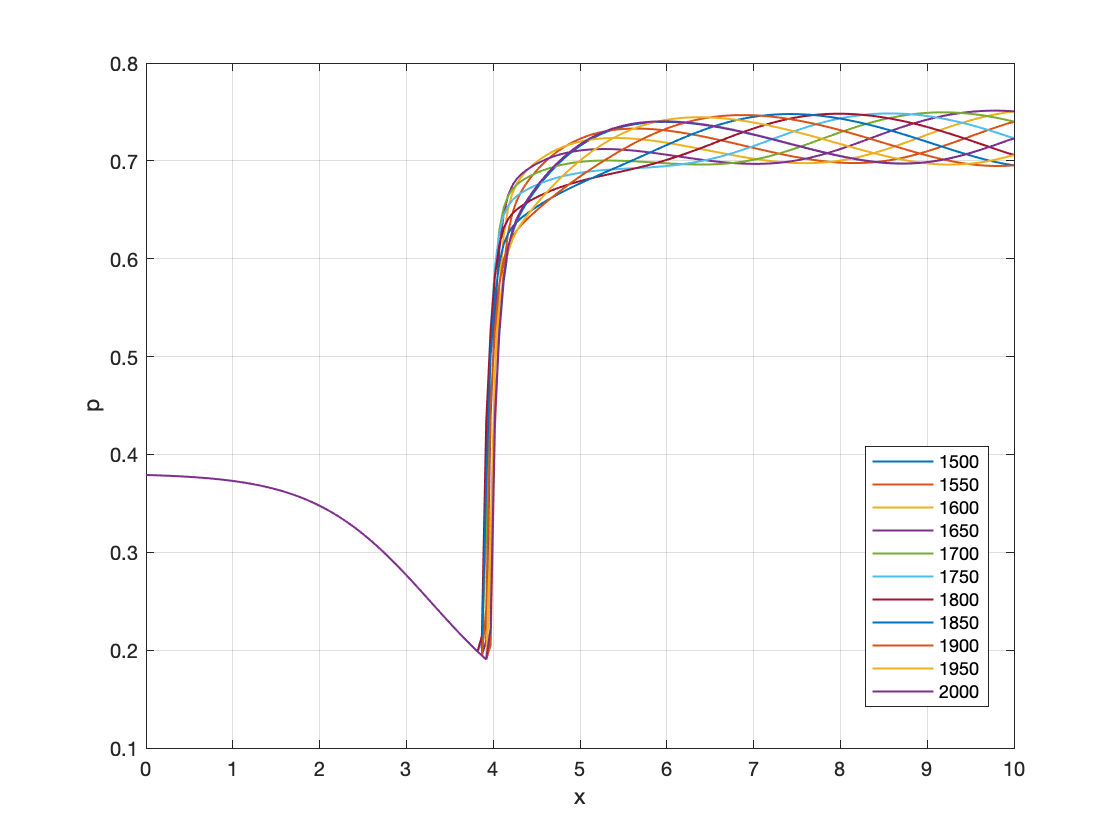
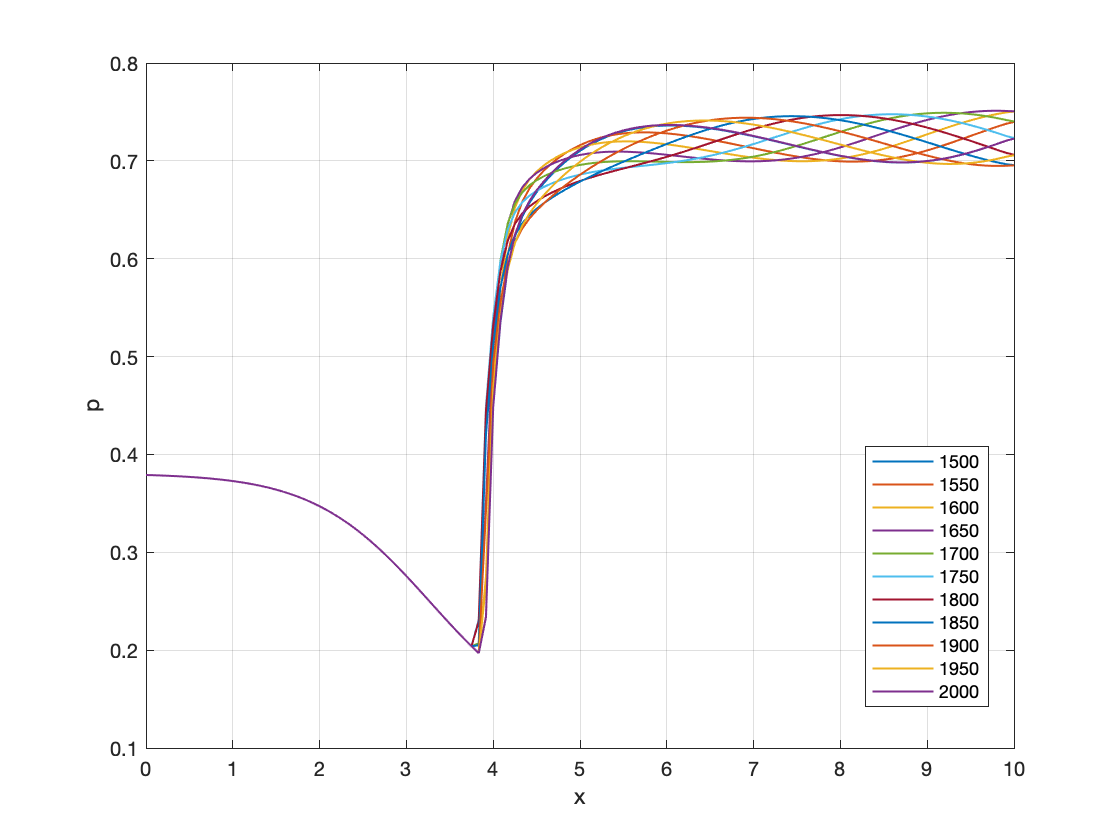
Add all part 4 graphs

Changed region(s): [[0.375, 0.1238, 0.9062, 0.8048], [0.3125, 0.619, 0.3438, 0.65], [0.2812, 0.5881, 0.3125, 0.619]]

diff --git a/HW7/code/temp.m b/HW7/code/temp.m
@@ -17,13 +17,16 @@ cfl = 0.9;
 max_iter = 2000;
 residual_history = zeros(max_iter, 1);
 
-amplitude = 0.3; % for graph 4.X
+amplitude = 0.01; % for graph 4.X
 iteration_chop = 1500:50:2000; % for graph 4.1 and 4.4
+plot_p_vs_t = 1; % for graph 4.2 and 4.3
+p_history = [];
+t_history = [];
 
 unsteady = 0;
 converged = 0;
 
-jmaxes = [200];
+jmaxes = [121];
 
 for jmax = jmaxes
   dx = 10./(jmax-1);
@@ -127,6 +130,11 @@ for jmax = jmaxes
         grid on
     end
 
+    if plot_p_vs_t % for graph 4.2 and 4.3
+        p_history = [p_history, Q(3,x==4.5)];
+        t_history = [t_history, t-dt];
+    end
+
   end
 
   % plot things
@@ -162,6 +170,14 @@ for jmax = jmaxes
   legend(num2str(iteration_chop'), Location="best")
   xlabel('x')
   ylabel('p')
+
+  if plot_p_vs_t % for graph 4.2 and 4.3
+     figure(7)
+     plot(t_history, p_history, 'r-', 'LineWidth', 2)
+     xlabel('t')
+     ylabel('p')
+     grid on
+  end
 end
 
 
